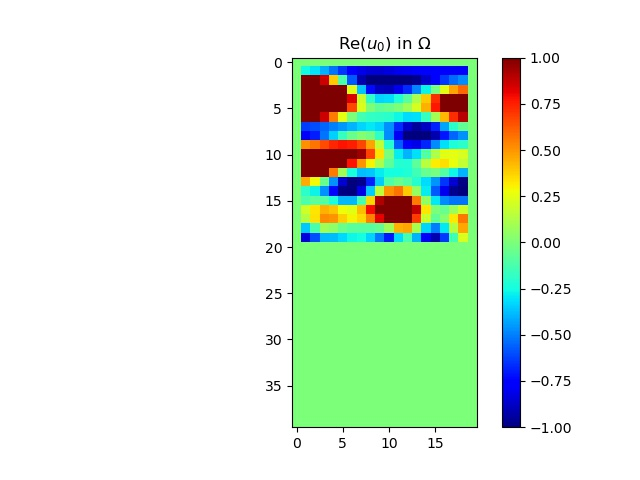
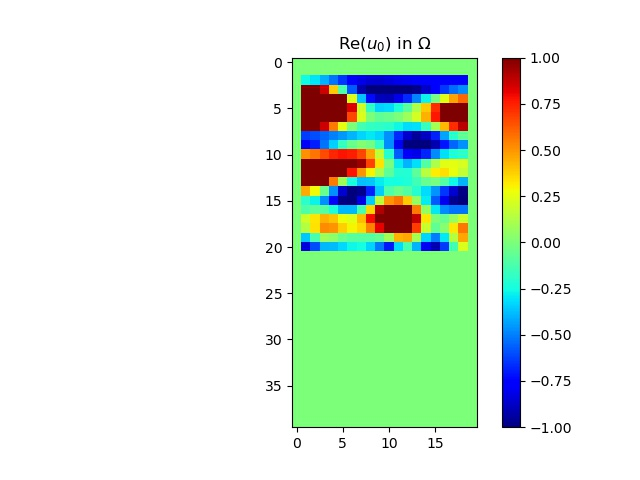
ouai

Changed region(s): [[0.4688, 0.125, 0.75, 0.5312]]

diff --git a/demo_control_polycopie.py b/demo_control_polycopie.py
@@ -72,6 +72,10 @@ def your_optimization_procedure(domain_omega, spacestep, wavenumber, f, f_dir, f
 
         Jp = -numpy.real(Alpha*u*p)
 
+        n = numpy.shape(Jp)[0]
+        for i in range(n-1):
+            Jp[n-1-i, :] = Jp[n-1-i-1, :]
+
         print(Jp)
 
         postprocessing._plot_perso_solution(Jp, chi*0)
@@ -87,7 +91,7 @@ def your_optimization_procedure(domain_omega, spacestep, wavenumber, f, f_dir, f
                     l -= eps2
                 else:
                     l += eps2
-                chi_next = projector(chi-mu*Jp, l)
+                chi_next = projector(chi-mu*Jp, l, domain_omega)
 
             print('    c. computing solution of Helmholtz problem, i.e., u')
             alpha_rob = Alpha * chi
